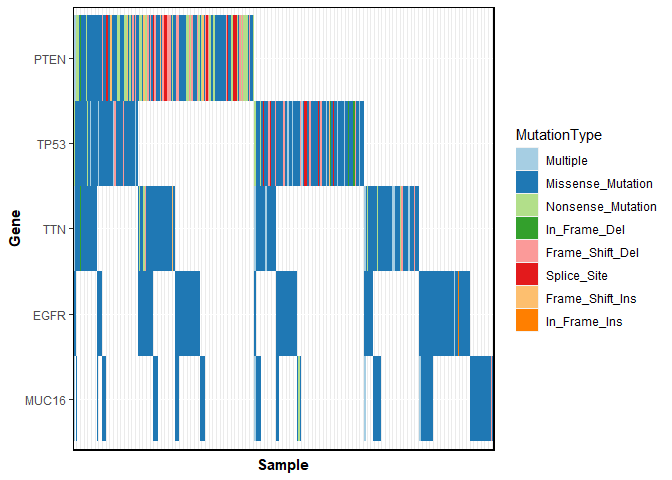
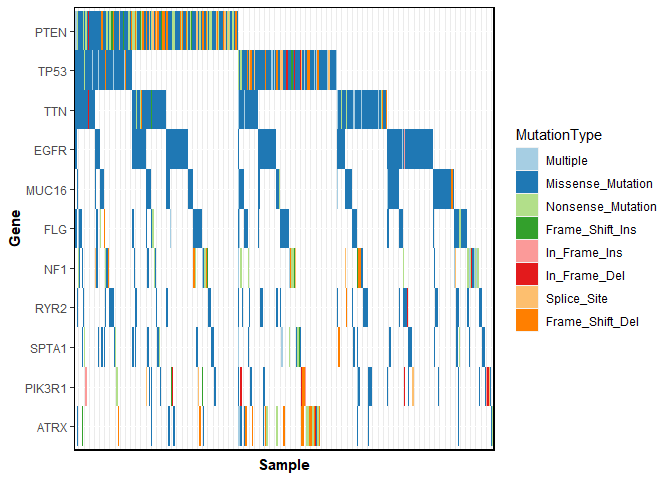
simplified readme and added basic usage vignette

Changed region(s): [[0.0312, 0.0, 0.75, 1.0], [0.8125, 0.4688, 0.9688, 0.6875]]

diff --git a/README.md b/README.md
@@ -44,15 +44,6 @@ mapping of your input dataset columns to the required features in the
 call to **ggoncoplot**
 
 ``` r
-library(dplyr)
-#> 
-#> Attaching package: 'dplyr'
-#> The following objects are masked from 'package:stats':
-#> 
-#>     filter, lag
-#> The following objects are masked from 'package:base':
-#> 
-#>     intersect, setdiff, setequal, union
 library(ggoncoplot)
 
 # TCGA GBM dataset from TCGAmuations package
@@ -64,34 +55,9 @@ gbm_df |>
     col_genes = 'Hugo_Symbol', 
     col_samples = 'Tumor_Sample_Barcode', 
     col_mutation_type = 'Variant_Classification', 
-    topn = 5, 
-    interactive = FALSE
-  )
-```
-
-<img src="man/figures/README-example-1.png" width="100%" />
-
-## Tooltip Customisation
-
-Lets add a custom tooltip that descrones the specific mutation
-
-``` r
-gbm_df |> 
-  mutate(tooltip = paste0(Reference_Allele, ">", Tumor_Seq_Allele2)) |>
-  ggoncoplot(
-    col_genes = 'Hugo_Symbol', 
-    col_samples = 'Tumor_Sample_Barcode', 
-    col_mutation_type = 'Variant_Classification', 
-    col_tooltip = 'tooltip', # We'll specify a custom tooltip based on our new 'tooltip' column
     topn = 10, 
     interactive = FALSE
   )
 ```
 
-<img src="man/figures/README-unnamed-chunk-2-1.png" width="100%" />
-
-Note tooltips are html, so if you want to insert a break, just paste in
-`<br>`.
-
-Similarly, if you want to make text in the tooltip bold, try
-`"<b>text_to_bold<\b>"`
+<img src="man/figures/README-example-1.png" width="100%" />
